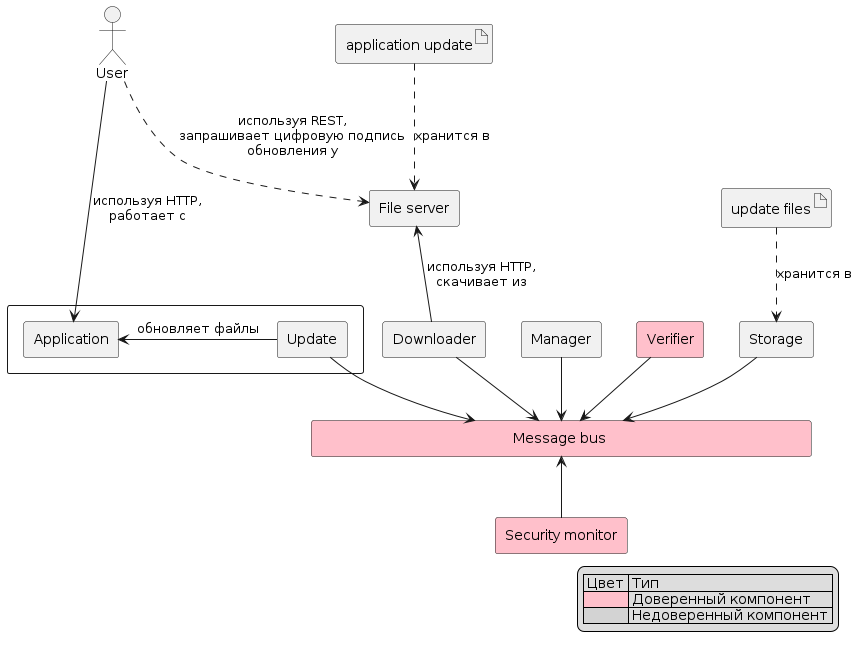
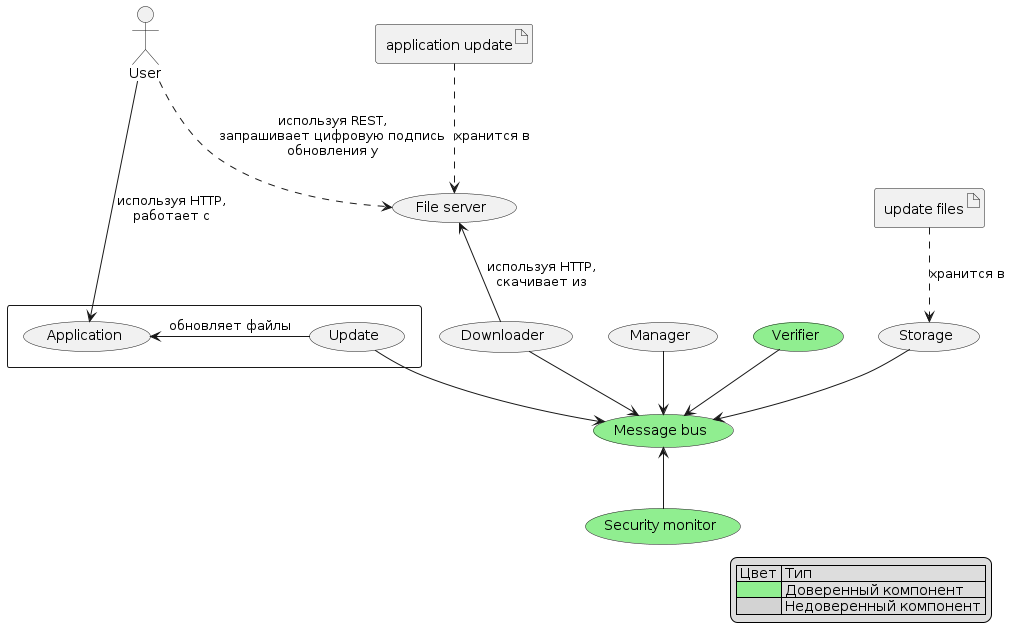
docs: dfd updated

diff --git a/docs/report/report.md b/docs/report/report.md
@@ -165,6 +165,10 @@
 Теоретически, шину обмена сообщениями можно сделать недоверенным компонентом, но тогда необходимо будет реализовать механим верификации сообщений. Например, можно использовать технологию типа blockchain. 
 Цена этого изменения - усложнение обмена сообщениями, дополнительные накладные расходы на верификацию, снижение производительности системы, возможно также возникновение нестабильности и различные ситуации гонок.
 
+В качестве альтернативного представления можно доверенные компоненты указать на расширенной диаграмме потоков данных:
+
+![DFD-TCB](./diagrams/docs/report/dfd-tcb/dfd-tcb.png?raw=true "Доверенные компоненты на диаграмме потоков данных")
+
 
 ### Политики безопасности*
 
